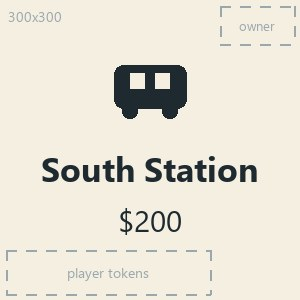
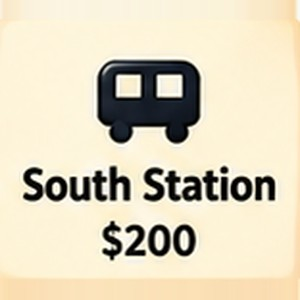
Use the Colourful Rent Rush City board as board art
Cut the full-board picture into the 24 square images, the centre and a
matching background with the new `npm run art:slice` script (grid found
from the gaps between squares; non-square cells padded with their own
edge colour). With centre art present, the live round/dice/Jackpot/card
info now sits on a panel at the bottom so the artwork's logo stays
visible and painted-in dice/Jackpot are covered.

diff --git a/app/globals.css b/app/globals.css
@@ -778,3 +778,32 @@ dialog.rules li {
 a.link {
   color: var(--accent);
 }
+
+/* Live info in the board centre: plain stack by default; with centre art, a panel at the
+   bottom (covers the lower part of the artwork, keeps its middle/logo visible). */
+.center-hud {
+  display: flex;
+  flex-direction: column;
+  align-items: center;
+  gap: 0.5rem;
+}
+
+.board-center.has-art {
+  justify-content: flex-end;
+  padding-bottom: 3%;
+}
+
+.board-center.has-art .center-hud {
+  width: 64%;
+  min-height: 36%;
+  justify-content: center;
+  padding: 0.6rem 0.75rem;
+  border-radius: 14px;
+  background: rgba(12, 18, 24, 0.86);
+  box-shadow: 0 6px 18px rgba(0, 0, 0, 0.45);
+}
+
+.board-center.has-art .center-hud .center-info,
+.board-center.has-art .center-hud .jackpot {
+  background: none;
+}

diff --git a/components/Board.tsx b/components/Board.tsx
@@ -93,6 +93,8 @@ export function Board({ state }: { state: GameState }) {
       })}
       <div className={`board-center ${hasCenter ? "has-art" : ""}`} style={bg(art, CENTER_ART.src)}>
         {!hasCenter && <div className="board-title">RENT RUSH</div>}
+        {/* With centre art, this becomes a panel at the bottom so the artwork's middle stays visible. */}
+        <div className="center-hud">
         <div className="center-info muted small">
           Round {Math.min(state.round, state.maxRounds)} of {state.maxRounds}
         </div>
@@ -118,6 +120,7 @@ export function Board({ state }: { state: GameState }) {
             <span>Fortune: {state.lastCard}</span>
           </div>
         )}
+        </div>
       </div>
     </div>
   );

diff --git a/scripts/slice-board.py b/scripts/slice-board.py
@@ -1,0 +1,168 @@
+"""
+Cuts a full board picture (7x7 layout, Start bottom-right, same square order as
+the game) into the board art files in public/board/.
+
+Usage (from the project root):
+    npm run art:slice -- "path/to/board.png"           # writes squares + centre + background
+    npm run art:slice -- "path/to/board.png" --dry-run # only prints the detected grid
+
+The grid is detected from the dark gaps between squares, so the source does not
+have to be perfectly regular. Non-square cells are padded by repeating their own
+edge pixels (no stretched text) and then scaled to the size game/art.ts expects.
+"""
+import json
+import sys
+from pathlib import Path
+
+from PIL import Image, ImageFilter
+
+ROOT = Path(__file__).resolve().parent.parent
+PUBLIC = ROOT / "public"
+INSET = 4  # px trimmed inside each detected square
+
+
+def p90(values):
+    s = sorted(values)
+    return s[int(len(s) * 0.9)]
+
+
+def gap_runs(profile, thr=150, min_width=3):
+    """Runs where (almost) the whole band is dark: the gaps between squares."""
+    runs, start = [], None
+    for i, v in enumerate(profile + [255]):
+        if v < thr and start is None:
+            start = i
+        elif v >= thr and start is not None:
+            if i - start >= min_width:
+                runs.append((start, i - 1))
+            start = None
+    return runs
+
+
+def spans(profile, size, cells=7):
+    """Pick the cells+1 real gaps: each next gap starts at least min_cell after the previous one."""
+    runs = gap_runs(profile)
+    min_cell = size / cells * 0.65
+    chosen = [runs[0]]
+    for r in runs[1:]:
+        if r[0] >= chosen[-1][1] + min_cell:
+            chosen.append(r)
+    if len(chosen) != cells + 1:
+        raise SystemExit(f"Could not find {cells} cells (found gaps {chosen}); is it a 7x7 board?")
+    return [(chosen[k][1] + 1, chosen[k + 1][0]) for k in range(cells)]  # [start, end)
+
+
+def square_by_edge_padding(img):
+    """Make an image square by repeating its edge pixels (keeps text proportions)."""
+    w, h = img.size
+    if w == h:
+        return img
+    n = max(w, h)
+    out = Image.new("RGB", (n, n))
+    x0, y0 = (n - w) // 2, (n - h) // 2
+    out.paste(img, (x0, y0))
+    if w < n:  # pad left/right with the edge columns
+        out.paste(img.crop((0, 0, 1, h)).resize((x0, h)), (0, y0)) if x0 else None
+        right = n - x0 - w
+        out.paste(img.crop((w - 1, 0, w, h)).resize((right, h)), (x0 + w, y0)) if right else None
+    else:  # pad top/bottom with the edge rows
+        out.paste(img.crop((0, 0, w, 1)).resize((w, y0)), (x0, 0)) if y0 else None
+        bottom = n - y0 - h
+        out.paste(img.crop((0, h - 1, w, h)).resize((w, bottom)), (x0, y0 + h)) if bottom else None
+    return out
+
+
+def board_index(row, col):
+    """Grid (row, col), 0-based, to square index; inverse of gridPosition() in game/board.ts."""
+    if row == 6:
+        return 6 - col
+    if col == 0:
+        return 6 + (6 - row)
+    if row == 0:
+        return 12 + col
+    if col == 6:
+        return 18 + row
+    return None
+
+
+def main():
+    args = [a for a in sys.argv[1:] if not a.startswith("--")]
+    if not args:
+        raise SystemExit(__doc__)
+    dry = "--dry-run" in sys.argv
+    specs = json.loads(sys.stdin.read())  # from scripts/print-art-spec.ts (see npm run art:slice)
+    src = Image.open(args[0]).convert("RGB")
+    W, H = src.size
+    gray = src.convert("L")
+    px = gray.load()
+
+    def prof_x(y0, y1):
+        return [p90([px[x, y] for y in range(y0, y1)]) for x in range(W)]
+
+    def prof_y(x0, x1):
+        return [p90([px[x, y] for x in range(x0, x1)]) for y in range(H)]
+
+    band = lambda k: (int(H * (k + 0.15) / 7), int(H * (k + 0.85) / 7))  # noqa: E731
+    cols_top = spans(prof_x(*band(0)), W)
+    cols_bottom = spans(prof_x(*band(6)), W)
+    rows_left = spans(prof_y(*band(0)), H)
+    rows_right = spans(prof_y(*band(6)), H)
+
+    def cell_box(row, col):
+        # Bottom-row cells use the bottom row's column edges; everything else the top row's.
+        x0, x1 = (cols_bottom if row == 6 else cols_top)[col]
+        y0, y1 = (rows_left if col == 0 else rows_right)[row]
+        return (x0, y0, x1, y1)
+
+    # Centre: between the inner edges of the side squares.
+    cx0, cx1 = max(cols_top[0][1], cols_bottom[0][1]), min(cols_top[6][0], cols_bottom[6][0])
+    cy0, cy1 = max(rows_left[0][1], rows_right[0][1]), min(rows_left[6][0], rows_right[6][0])
+    # trim the dark gap around it
+    cx0, cy0, cx1, cy1 = cx0 + 8, cy0 + 8, cx1 - 8, cy1 - 8
+
+    print(f"source {W}x{H}")
+    print("columns (top):", cols_top)
+    print("rows (left):  ", rows_left)
+    print(f"centre: x {cx0}-{cx1}, y {cy0}-{cy1} ({cx1 - cx0}x{cy1 - cy0})")
+    if dry:
+        return
+
+    squares = [a for a in specs if a["kind"] == "square"]
+    by_kind = {a["kind"]: a for a in specs if a["kind"] in ("center", "background")}
+
+    def save(img, a):
+        out = PUBLIC / a["src"].lstrip("/")
+        out.parent.mkdir(parents=True, exist_ok=True)
+        img.resize((a["width"], a["height"]), Image.LANCZOS).save(out, "JPEG", quality=90, optimize=True)
+
+    written = 0
+    for row in range(7):
+        for col in range(7):
+            i = board_index(row, col)
+            if i is None:
+                continue
+            # Trim the tile's dark outline so edge padding repeats tile colour, not outline.
+            x0, y0, x1, y1 = cell_box(row, col)
+            cell = src.crop((x0 + INSET, y0 + INSET, x1 - INSET, y1 - INSET))
+            save(square_by_edge_padding(cell), squares[i])
+            written += 1
+
+    # Centre: square crop from the middle (the source centre is rarely exactly square).
+    cw, ch = cx1 - cx0, cy1 - cy0
+    side = min(cw, ch)
+    ox, oy = cx0 + (cw - side) // 2, cy0 + (ch - side) // 2
+    save(src.crop((ox, oy, ox + side, oy + side)), by_kind["center"])
+    written += 1
+
+    # Background: only the gaps/edge show, so use the source's own gap colour with a soft texture.
+    gap_px = [src.getpixel((x, (rows_left[k][1] + rows_left[k + 1][0]) // 2)) for k in range(6) for x in range(30, 150, 10)]
+    gap_color = tuple(sorted(c[i] for c in gap_px)[len(gap_px) // 2] for i in range(3))
+    bg = src.resize((256, 256)).filter(ImageFilter.GaussianBlur(40))
+    bg = Image.blend(Image.new("RGB", bg.size, gap_color), bg, 0.25)
+    save(bg, by_kind["background"])
+    written += 1
+    print(f"written: {written} files (gap colour {gap_color})")
+
+
+if __name__ == "__main__":
+    main()

diff --git a/scripts/make-art-templates.py b/scripts/make-art-templates.py
@@ -126,8 +126,8 @@ def center(spec):
     centered(ImageDraw.Draw(title), (W // 2, 150), "RENT RUSH", font(210, bold=True), GOLD)
     title = title.rotate(8, expand=False, resample=Image.BICUBIC)
     img.paste(title, (0, int(H * 0.12)), title)
-    dashed_box(d, (W // 2 - 420, int(H * 0.3), W // 2 + 420, int(H * 0.78)),
-               "live info drawn here: round, dice, Jackpot, Fortune card", color="#6f8f84", dash=18, width=4, label_size=34)
+    dashed_box(d, (W // 2 - 480, int(H * 0.6), W // 2 + 480, int(H * 0.97)),
+               "live info panel: round, dice, Jackpot, Fortune card", color="#6f8f84", dash=18, width=4, label_size=34)
     size_note(d, spec, color="#6f8f84", size=30)
     return img
 

diff --git a/BOARD-ART.md b/BOARD-ART.md
@@ -12,6 +12,24 @@ built-in CSS look, so you can work one image at a time.
    with the same name (quality ~85, ideally under 300 KB each).
 3. Hard-refresh the preview (Ctrl+Shift+R).
 
+### From one full-board picture
+
+If you have the whole board as one image (7×7 layout, Start bottom-right, squares in the game's
+order), cut it up automatically:
+
+```bash
+npm run art:slice -- "Colourful Rent Rush City Board.png"            # writes 24 squares, centre, background
+npm run art:slice -- "Colourful Rent Rush City Board.png" --dry-run  # only show the detected grid
+```
+
+It finds the squares from the dark gaps between them, so the picture doesn't need a perfectly
+regular grid. Non-square cells are padded with their own edge colour (text isn't stretched),
+and the centre is cropped square from the middle. **It overwrites** those 26 files. Tokens, dice
+and the Fortune card are separate files that it doesn't touch. Higher-resolution sources give
+sharper squares (each square should ideally be at least 300 px in the source).
+
+### Templates
+
 The starter templates are generated by `npm run art:templates` (Python + Pillow). It only creates
 **missing** files and never overwrites your art; `npm run art:templates -- --force` regenerates all
 of them (this deletes your art).
@@ -21,7 +39,7 @@ of them (this deletes your art).
 | File | Size (px) | Notes |
 | --- | --- | --- |
 | `background.jpg` | 2100×2100 | Behind the whole board; only the thin gaps and edge show. |
-| `center.jpg` | 1500×1500 | Inside the ring of squares. The game draws round, dice, Jackpot and the Fortune card in the middle, so keep the centre calm. When this file exists, the built-in "RENT RUSH" title is hidden: put the title in your art. |
+| `center.jpg` | 1500×1500 | Inside the ring of squares. With this file present, the game shows round, dice, Jackpot and the Fortune card on a dark panel over the **bottom third** (about the middle 64% of the width), and hides the built-in "RENT RUSH" title: put your title in the upper part. Don't paint dice or a Jackpot amount; the game shows the real ones. |
 | `squares/00-start.jpg` … `squares/23-golden-mile.jpg` | 300×300 each | One per square, numbered clockwise from Start. Your art carries the name and price (the built-in text is hidden when the image exists). |
 | `tokens/token-1.jpg` … `token-4.jpg` | 128×128 | Player pieces, shown cropped to a circle with a player-colour ring. |
 | `dice/die-1.jpg` … `die-6.jpg` | 160×160 | Die faces, shown with rounded corners. |
@@ -36,6 +54,7 @@ The dashed boxes in the templates show where the game draws live information on 
 - **Squares:** owner dot plus ▲ upgrade pips in the **top-right** corner; player tokens along
   the **bottom-left** edge; a coloured border in the owner's colour; a gold outline on the
   current player's square.
-- **Centre:** round counter, dice, Jackpot and Fortune card, stacked in the middle.
+- **Centre:** round counter, dice, Jackpot and Fortune card, on a panel at the bottom when
+  `center.jpg` exists (stacked in the middle without it).
 
 Squares appear about 60–110 px wide on screen, so bold shapes and large text read best.
